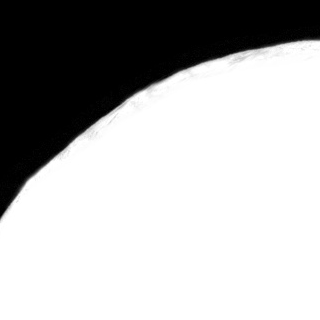
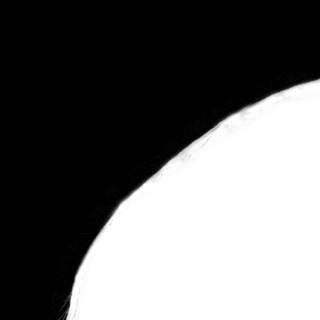
Fix bug, update images

diff --git a/demo.py b/demo.py
@@ -7,12 +7,14 @@ import numpy as np
 
 from data_generator import generate_trimap, get_crop_top_left, get_alpha
 from new_start import autoencoder
+from trimap_dict import trimap_init
 
 if __name__ == '__main__':
     img_rows, img_cols = 320, 320
     channel = 4
+    trimap_init()
 
-    model_weights_path = 'models/model.06-0.02.hdf5'
+    model_weights_path = 'models/model.22-0.01.hdf5'
     model = autoencoder(img_rows, img_cols, channel)
     model.load_weights(model_weights_path)
     print(model.summary())
@@ -48,9 +50,9 @@ if __name__ == '__main__':
         bgr_img = bgr_img[y:y + 320, x:x + 320]
         alpha = alpha[y:y + 320, x:x + 320]
         trimap = trimap[y:y + 320, x:x + 320]
-        cv.imwrite('images/{}_image.png'.format(image_name), bgr_img)
-        cv.imwrite('images/{}_trimap.png'.format(image_name), trimap)
-        cv.imwrite('images/{}_alpha.png'.format(image_name), alpha)
+        cv.imwrite('images/{}_image.png'.format(image_name), np.array(bgr_img).astype(np.uint8))
+        cv.imwrite('images/{}_trimap.png'.format(image_name), np.array(trimap).astype(np.uint8))
+        cv.imwrite('images/{}_alpha.png'.format(image_name), np.array(alpha).astype(np.uint8))
 
         x_test = np.empty((1, 320, 320, 4), dtype=np.float32)
         x_test[0, :, :, 0:3] = bgr_img / 255.

diff --git a/data_generator.py b/data_generator.py
@@ -27,7 +27,7 @@ def generate_trimap(alpha):
     unknown = alpha.copy()
     unknown[alpha != 0] = 255
     unknown = cv.dilate(unknown, kernel, iterations=iter)
-    trimap = np.sign(unknown - fg) * unknown + fg
+    trimap = np.sign(unknown - fg) * 128 + fg
     return np.array(trimap).astype(np.uint8)
 
 
@@ -39,7 +39,7 @@ def get_crop_top_left(trimap):
             x = random.randint(0, w - img_cols)
         if h > img_rows:
             y = random.randint(0, h - img_rows)
-        if trimap[y + 160, x + 160] == unknown:
+        if trimap[y + 160, x + 160] == 128:
             break
     return x, y
 

diff --git a/utils.py b/utils.py
@@ -11,8 +11,8 @@ def custom_loss(y_true, y_pred):
     epsilon = 1e-6
     epsilon_sqr = K.constant(epsilon ** 2)
     if trimap is not None:
-        trimap[trimap != unknown] = 0
-        trimap[trimap == unknown] = 1
+        trimap[trimap != 128] = 0
+        trimap[trimap == 128] = 1
         diff = (y_pred - y_true) * trimap
         num_pixels = K.sum(trimap)
         return K.sum(K.sqrt(K.square(diff) + epsilon_sqr)) / num_pixels

diff --git a/config.py b/config.py
@@ -7,4 +7,3 @@ num_samples = 43100
 num_train_samples = 34480
 # num_samples - num_train_samples
 num_valid_samples = 8620
-unknown = 128
